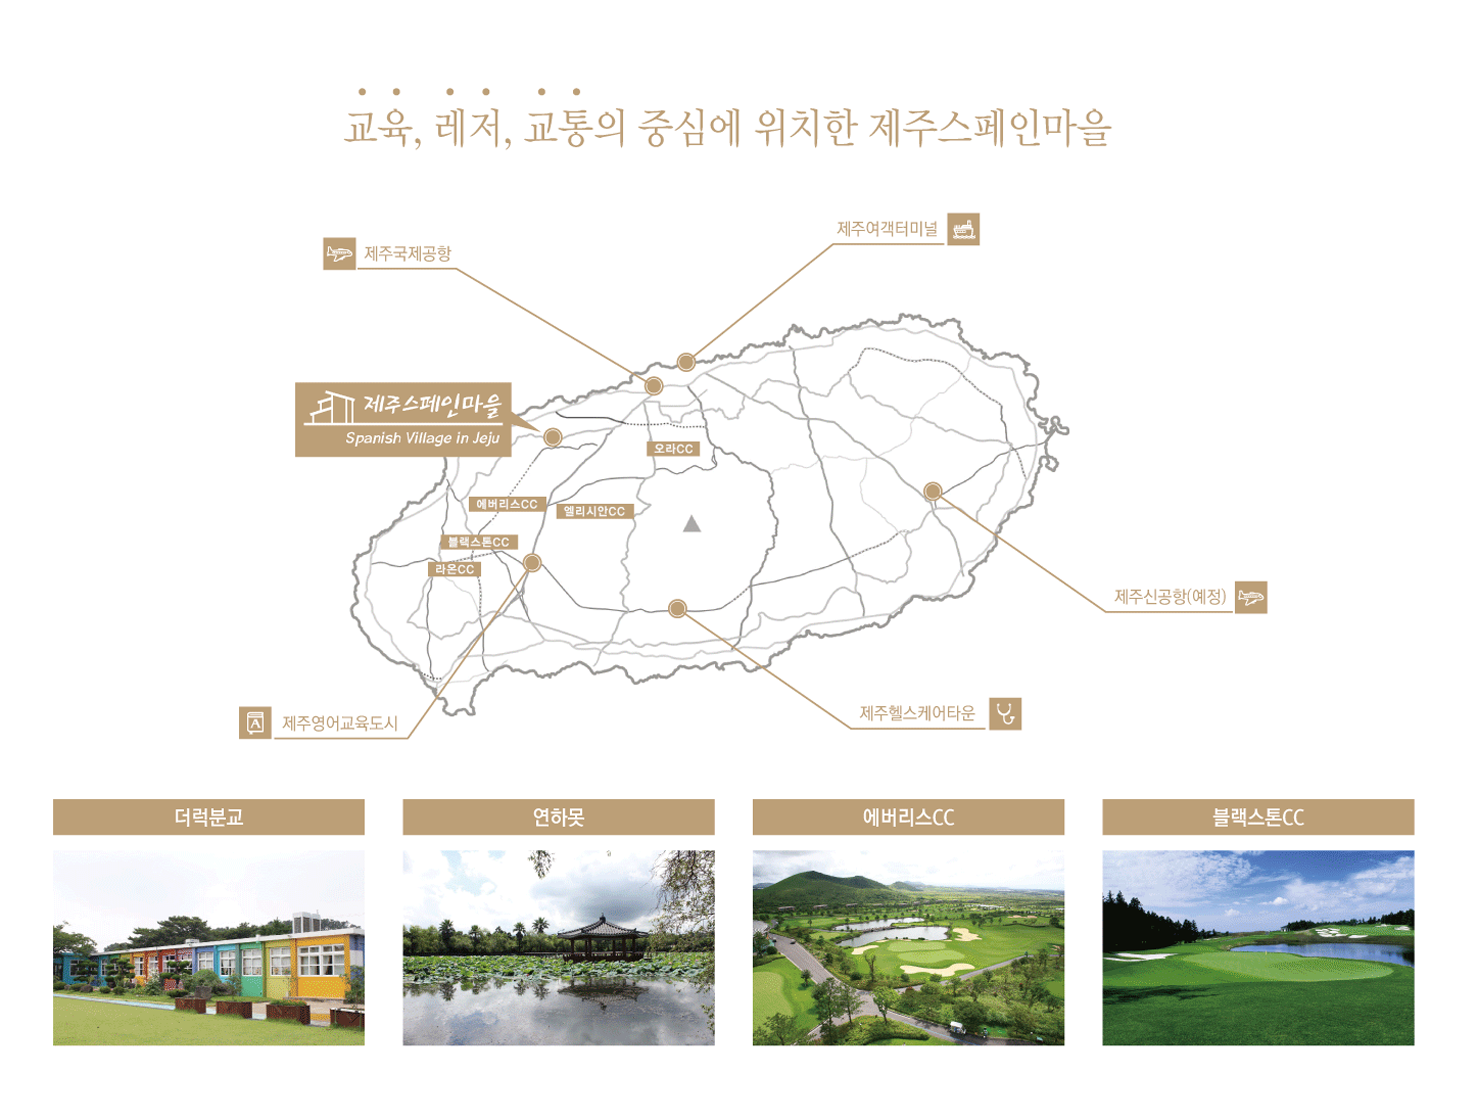
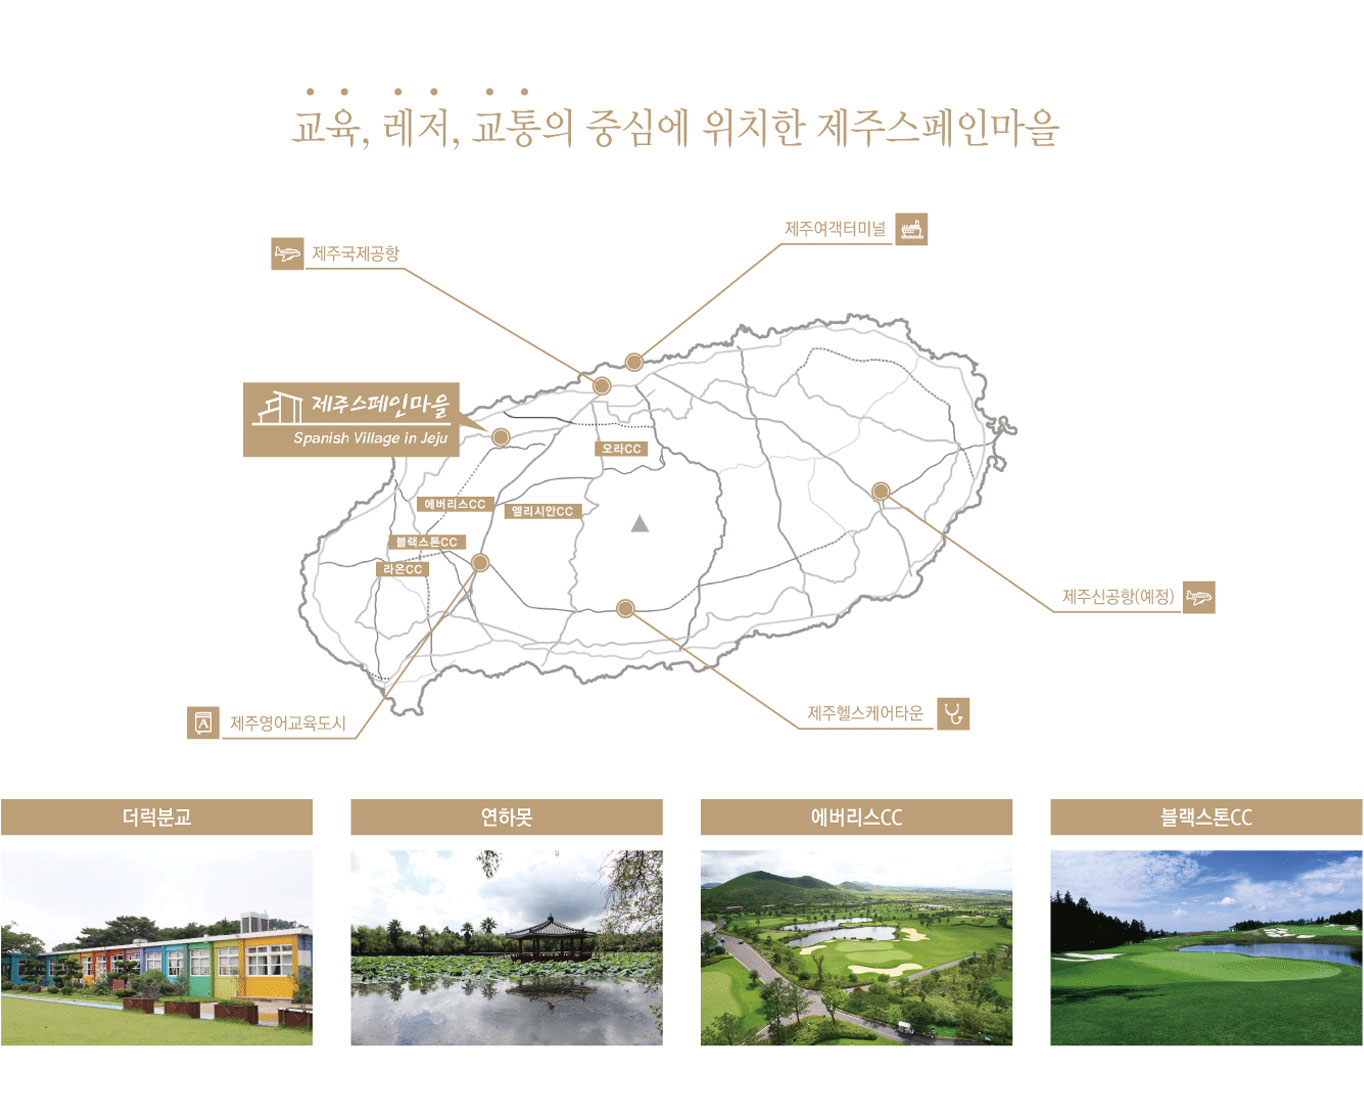
하우스 소개 이미지 변경 및 전체적인 이미지 사이즈 줄임

diff --git a/assets/styles/App.css b/assets/styles/App.css
@@ -66,7 +66,7 @@ ul {
 }
 
 .rap {
-  max-width: 1200px;
+  max-width: 1100px;
   width: 100%;
   margin: 0 auto;
 }
